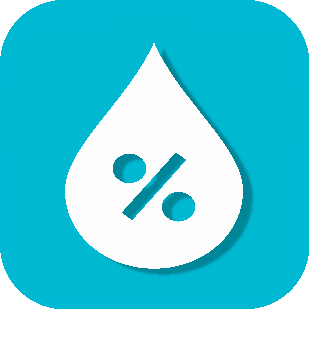
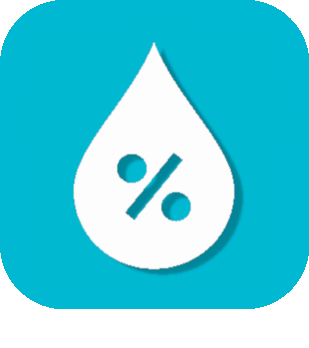
update icone et relecture doc

diff --git a/core/class/humidity.class.php b/core/class/humidity.class.php
@@ -161,7 +161,7 @@ class humidity extends eqLogic {
 
     public function execActions($_config) { // on donne le type d'action en argument et ca nous execute toute la liste
 
-      log::add('humidity', 'debug', '################ Execution des actions du type ' . $_config . ' pour ' . $this->getName() .  ' ############');
+      log::add('humidity', 'info', '=> Execution des actions du type ' . $_config . ' pour ' . $this->getName());
 
       if($_config == 'action_on'){
 

diff --git a/docs/fr_FR/index.md b/docs/fr_FR/index.md
@@ -37,7 +37,11 @@ Vous pouvez configurer plusieurs actions par état, elles seront réalisées sim
 Infos sur les actions :
 * Les actions peuvent être le lancement d'un scenario si besoin.
 * Sachant qu'un déshumidificateur sera d'autant plus efficace que la température est élevée, vous pouvez choisir de déclencher un chauffage en même temps que votre déshumidificateur.
-* Vous pouvez vous envoyer une notification pour mettre à jour un widget android, via Tasker, à chaque changement d'état par exemple.
+* Vous pouvez vous envoyer des messages pour mettre à jour un widget android, via Tasker, à chaque changement d'état par exemple. Ou pour suivre chaque changement de consigne ou nouvelle valeur d'humidité.
+* Les actions de lancement sont appelées lorsque le plugin est sur "On" et à **chaque nouvelle valeur de consigne ou d'humidité** si la consigne n'est pas atteinte.
+* Les actions d'arrêt sont appelées :
+   * Une fois lors que le plugin passe sur "Off"
+   * Lorsque le plugin est sur "On" et à **chaque nouvelle valeur de consigne ou d'humidité** si la consigne est atteinte.
 * Pour les actions de type message vous pouvez utiliser les tags suivants :
    * #humidity_name# => le nom de l'équipement donné dans l'onglet "Equipement"
    * #humidity_value# => la valeur courante de l'humidité dans la pièce
@@ -82,7 +86,9 @@ Le mode (On/Off) n'est pas modifié à la réception d'une nouvelle valeur de co
 
 ### via une variable (et appel API)
 
-Créer une variable (Outils/Variables/Ajouter).
+Créer une variable :
+* jeedom v4 : Outils/Variables/Ajouter
+* jeedom v3 : Outils/Scenarios/Voir Variables/Ajouter
 
 Dans le champs "Consigne" du plugin, utiliser cette variable, sans oublier de l'entourer par des '#'. Exemple : '#variable(consigne_humidity)#'.
 
